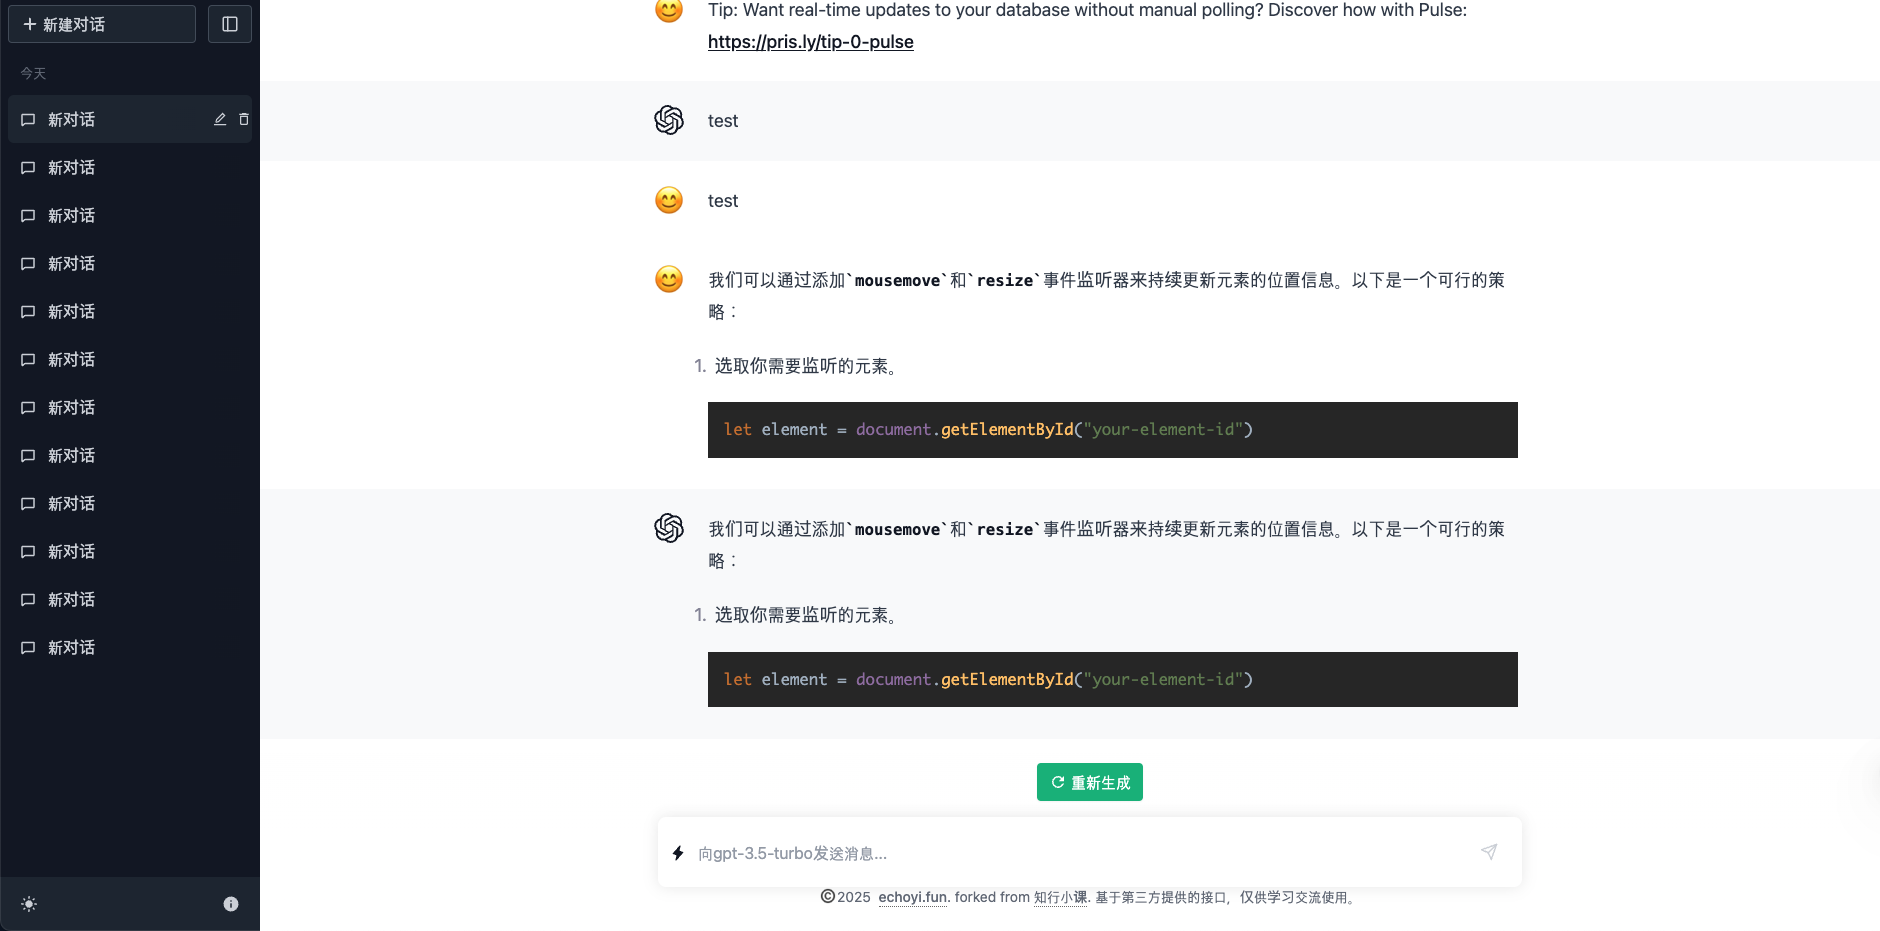
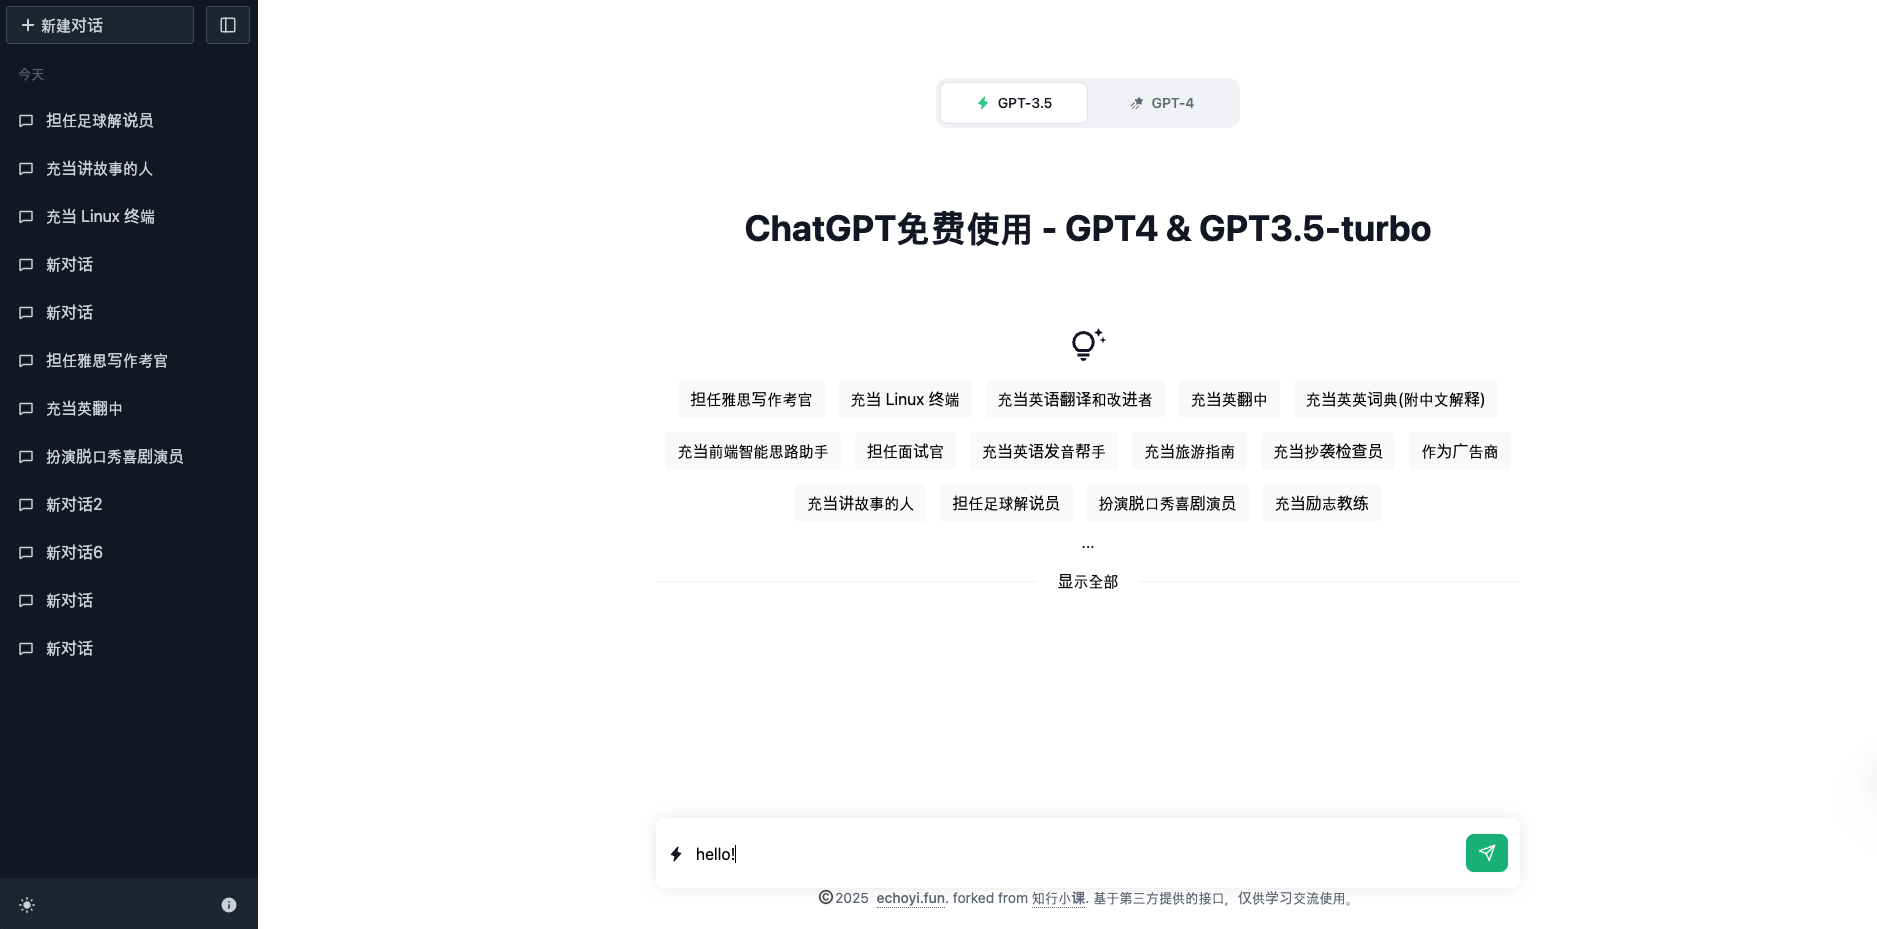
update function: new chat through examples

diff --git a/components/home/Main/ChatInput.tsx b/components/home/Main/ChatInput.tsx
@@ -1,6 +1,9 @@
 import { useAppContext } from "@/components/AppContext";
 import Button from "@/components/common/Button";
-import { useEventBusContext } from "@/components/EventBusContext";
+import {
+  useEventBusContext,
+  EventListener,
+} from "@/components/EventBusContext";
 import { ActionType } from "@/reducer/AppReducer";
 import { Message, MessageRequestBody } from "@/types/chat";
 import { useEffect, useRef, useState } from "react";
@@ -15,7 +18,7 @@ export default function ChatInput() {
     state: { currentModel, messageList, streamingId, selectedChat },
     dispatch,
   } = useAppContext();
-  const { publish } = useEventBusContext();
+  const { publish, subscribe, unsubscribe } = useEventBusContext();
 
   // 控制停止生成. 使用useRef而不是useState的原因：
   // 1. useRef 的值改变不会导致组件重新渲染，而 useState 的值改变会触发重渲染
@@ -33,13 +36,22 @@ export default function ChatInput() {
     stopRef.current = true;
   }, [selectedChat]);
 
-  async function createOrUpdateMessage(message: Message) {
+  useEffect(() => {
+    // 从示例中产生新建对话事件
+    const callback: EventListener = ([data, title]) => {
+      send(data, title);
+    };
+    subscribe("createNewChat", callback);
+    return () => unsubscribe("createNewChat", callback);
+  }, []);
+
+  async function createOrUpdateMessage(message: Message, title?: string) {
     const response = await fetch("/api/message/update", {
       method: "POST",
       headers: {
         "Content-Type": "application/json",
       },
-      body: JSON.stringify(message),
+      body: JSON.stringify({ ...message, title }),
     });
     if (!response.ok) {
       console.log(response.statusText);
@@ -47,7 +59,7 @@ export default function ChatInput() {
     }
     const { data } = await response.json();
     if (!chatIdRef.current) {
-      // 新对话 发送通知刷新对话列表
+      // 新对话 发送事件通知刷新对话列表
       chatIdRef.current = data.message.chatId;
       publish("fetchChatList");
       dispatch({
@@ -74,13 +86,16 @@ export default function ChatInput() {
     return code === 0;
   }
 
-  async function send() {
-    const message = await createOrUpdateMessage({
-      id: "",
-      role: "user",
-      content: messageText,
-      chatId: chatIdRef.current,
-    });
+  async function send(content: string, title?: string) {
+    const message = await createOrUpdateMessage(
+      {
+        id: "",
+        role: "user",
+        content,
+        chatId: chatIdRef.current,
+      },
+      title || ""
+    );
     dispatch({
       type: ActionType.ADD_MESSAGE,
       message: message,
@@ -224,7 +239,7 @@ export default function ChatInput() {
             icon={FiSend}
             disabled={messageText.trim() === "" || streamingId !== ""}
             variant="primary"
-            onClick={send}
+            onClick={() => send(messageText)}
           />
         </div>
       </div>

diff --git a/components/home/Main/Example.tsx b/components/home/Main/Example.tsx
@@ -2,7 +2,7 @@ import { MdOutlineTipsAndUpdates } from "react-icons/md";
 import examples from "@/data/examples.json";
 import Button from "@/components/common/Button";
 import { useMemo, useState } from "react";
-import exp from "constants";
+import { useEventBusContext } from "@/components/EventBusContext";
 
 export default function Example() {
   const [showFull, setShowFull] = useState(false);
@@ -13,6 +13,8 @@ export default function Example() {
       return examples.slice(0, 15);
     }
   }, [showFull]);
+
+  const { publish } = useEventBusContext();
   return (
     <>
       <div className="mt-20 mb-4 text-4xl">
@@ -22,7 +24,13 @@ export default function Example() {
         {list.map((item) => {
           return (
             <li key={item.act}>
-              <Button>{item.act}</Button>
+              <Button
+                onClick={() => {
+                  publish("createNewChat", [item.prompt, item.act]);
+                }}
+              >
+                {item.act}
+              </Button>
             </li>
           );
         })}

diff --git a/components/home/Main/index.tsx b/components/home/Main/index.tsx
@@ -1,14 +1,19 @@
+"use client";
+import { useAppContext } from "@/components/AppContext";
 import ChatInput from "./ChatInput";
 import Menu from "./Menu";
 import MessageList from "./MessageList";
 import Welcome from "./Welcome";
 
 export default function Main() {
+  const {
+    state: { selectedChat },
+  } = useAppContext();
   return (
     <div className="flex-1 relative">
       <main className="overflow-y-auto w-full h-full bg-white text-gray-900 dark:bg-gray-800 dark:text-gray-100 ">
         <Menu />
-        {/* <Welcome /> */}
+        {!selectedChat && <Welcome />}
         <MessageList />
         <ChatInput />
       </main>

diff --git a/app/api/message/update/route.ts b/app/api/message/update/route.ts
@@ -8,11 +8,11 @@ import { NextRequest, NextResponse } from "next/server";
  */
 export async function POST(request: NextRequest) {
   const body = await request.json();
-  const { id, ...data } = body;
+  const { id, title, ...data } = body;
   if (!data.chatId) {
     const chat = await prisma.chat.create({
       data: {
-        title: "新对话",
+        title: title !== "" ? title : "新对话",
       },
     });
     data.chatId = chat.id;
